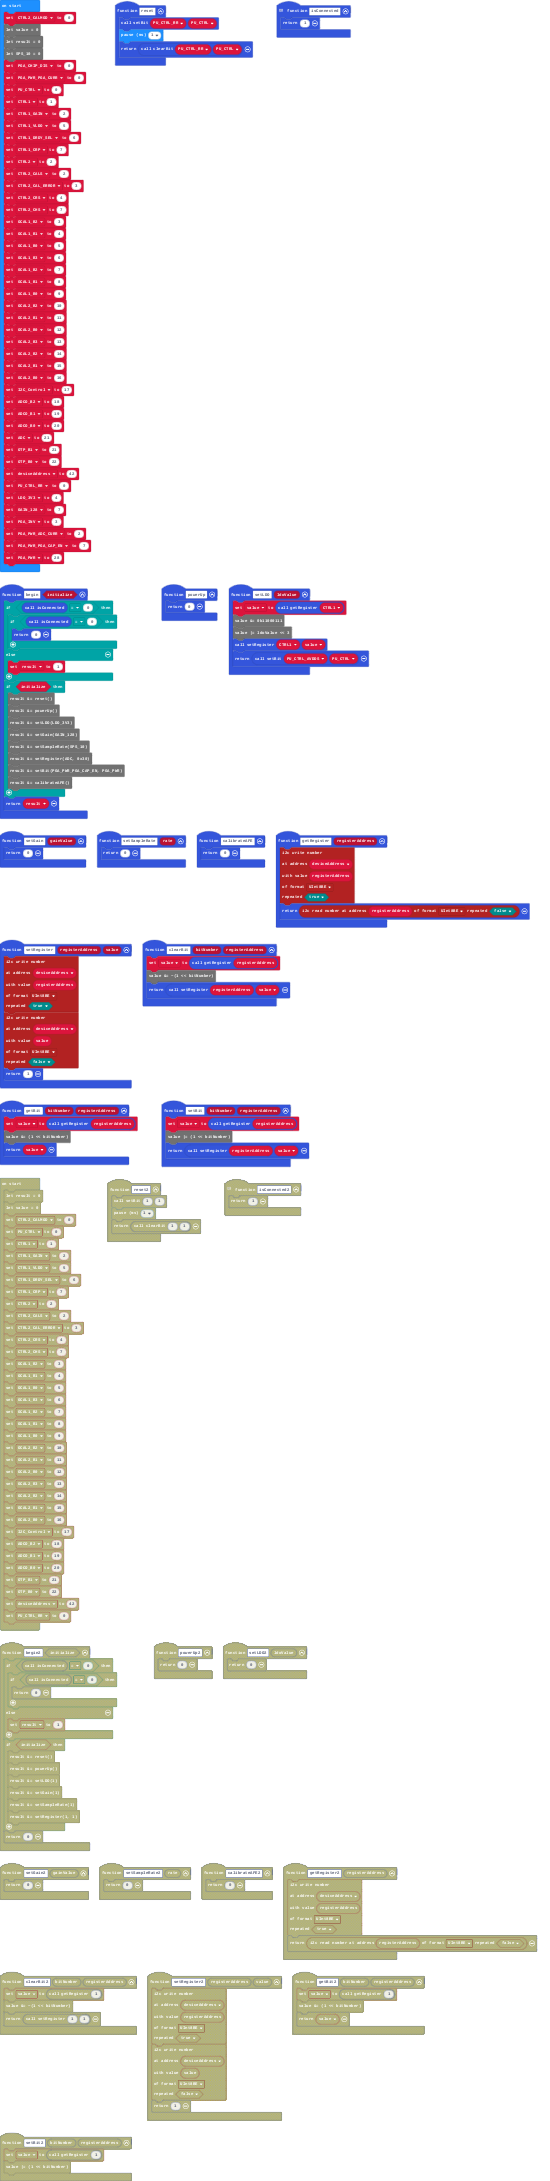
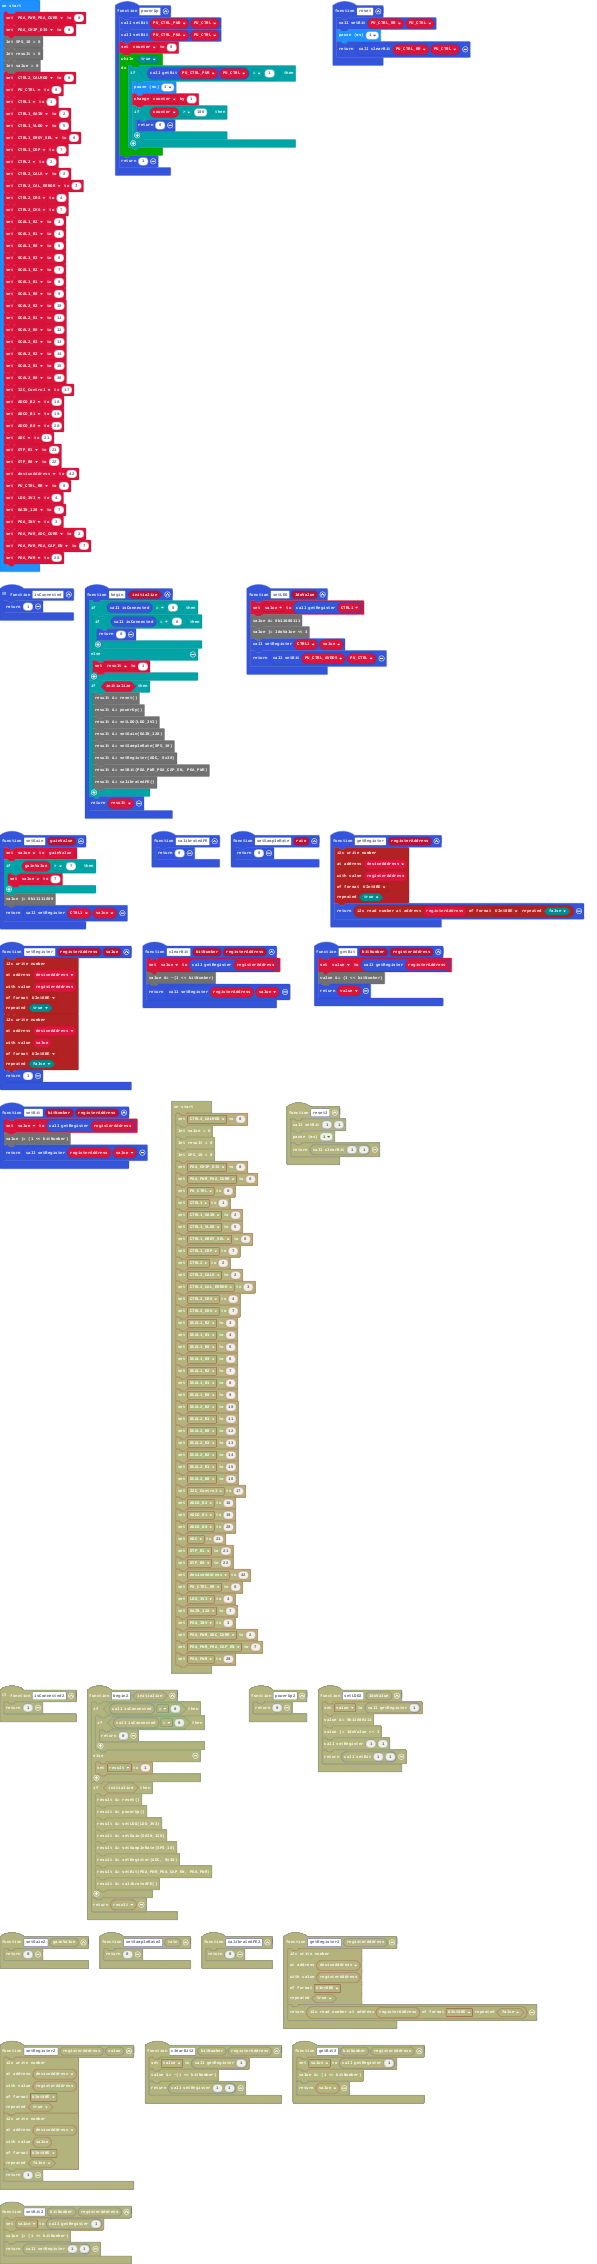
done setGain

Changed region(s): [[0.0, 0.0, 0.9891, 1.0], [0.1855, 0.0, 0.4945, 0.0935], [0.4945, 0.0, 0.8036, 0.0312]]

diff --git a/main.ts b/main.ts
@@ -16,7 +16,12 @@ function getBit (bitNumber: number, registerAddress: number) {
 return value
 }
 function setGain (gainValue: number) {
-    return 0
+    value = gainValue
+    if (gainValue > 7) {
+        value = 7
+    }
+    value |= 0b11111000
+return setRegister(CTRL1, value)
 }
 function setLDO (ldoValue: number) {
     let PU_CTRL_AVDDS = 0
@@ -52,7 +57,22 @@ result &= calibrateAFE()
     return result
 }
 function powerUp () {
-    return 0
+    let PU_CTRL_PUA = 0
+    let PU_CTRL_PUD = 0
+    setBit(PU_CTRL_PUD, PU_CTRL)
+    setBit(PU_CTRL_PUA, PU_CTRL)
+    counter = 0
+    while (true) {
+        let PU_CTRL_PUR = 0
+        if (getBit(PU_CTRL_PUR, PU_CTRL) == 1) {
+            basic.pause(1)
+            counter += 1
+            if (counter > 100) {
+                return 0
+            }
+        }
+    }
+    return 1
 }
 function setBit (bitNumber: number, registerAddress: number) {
     value = getRegister(registerAddress)
@@ -86,16 +106,17 @@ function setSampleRate (rate: number) {
 function isConnected () {
     return 1
 }
+let counter = 0
 let PU_CTRL_RR = 0
 let deviceAddress = 0
 let CTRL1 = 0
 let PU_CTRL = 0
-let CTRL2_CALMOD = 0
-let value = 0
-let result = 0
-let SPS_10 = 0
-let PGA_CHIP_DIS = 0
 let PGA_PWR_PGA_CURR = 0
+let PGA_CHIP_DIS = 0
+let SPS_10 = 0
+let result = 0
+let value = 0
+let CTRL2_CALMOD = 0
 PU_CTRL = 0
 CTRL1 = 1
 let CTRL1_GAIN = 2
